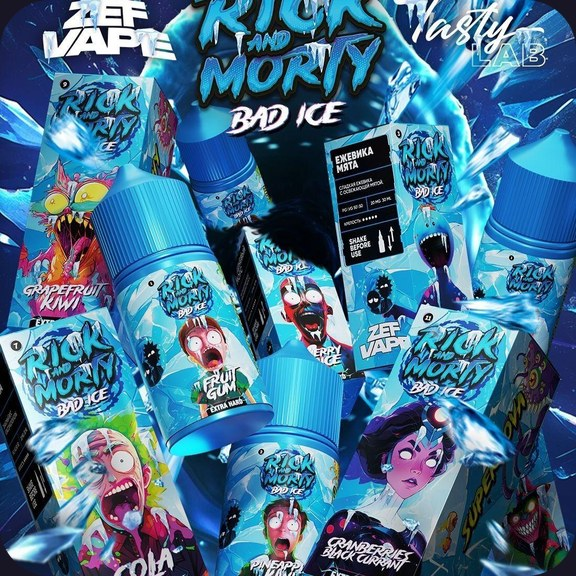
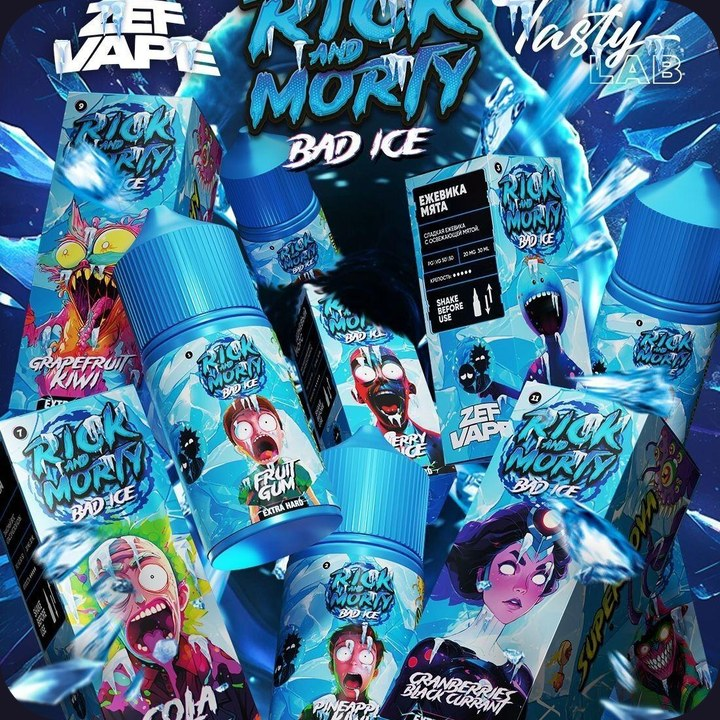
Фото линеек из PDF в лучшем качестве (до 720x720, тот же кадр); картриджи, POD и DUALL не тронуты; кэш сайта v2
Claude-Session: https://claude.ai/code/session_017igPMSALwwQsEPwYYCdQon

diff --git a/sw.js b/sw.js
@@ -2,7 +2,7 @@
    Страница и prices.js: сначала сеть (чтобы прайс всегда был свежий), если сети нет или она слишком медленная, берётся сохранённая копия.
    Фото, иконки и шрифты: из сохранённой копии, в фоне обновляются.
    GitHub API и таблицу Google (правки прайса, синхронизация) не трогаем. */
-var V = "napivo-v1";
+var V = "napivo-v2";   // поднимать при замене фото, чтобы устройства скачали новые
 var SHELL = ["./", "index.html", "manifest.webmanifest", "icon-192.png", "icon-512.png", "apple-touch-icon.png", "prices.js"];
 
 self.addEventListener("install", function(e){
@@ -15,7 +15,7 @@ self.addEventListener("install", function(e){
       t.split("\n").forEach(function(l){
         if(/^\s*##(?!#)/.test(l)){ var f = (l.replace(/^\s*##\s*/, "").split("|")[3] || "").trim(); if(f) names[f] = 1; }
       });
-      await Promise.all(Object.keys(names).map(function(n){ return c.add("img/" + encodeURI(n)).catch(function(){}); }));
+      await Promise.all(Object.keys(names).map(function(n){ return c.add(new Request("img/" + encodeURI(n), {cache: "reload"})).catch(function(){}); }));
     }catch(err){}
     self.skipWaiting();
   })());
